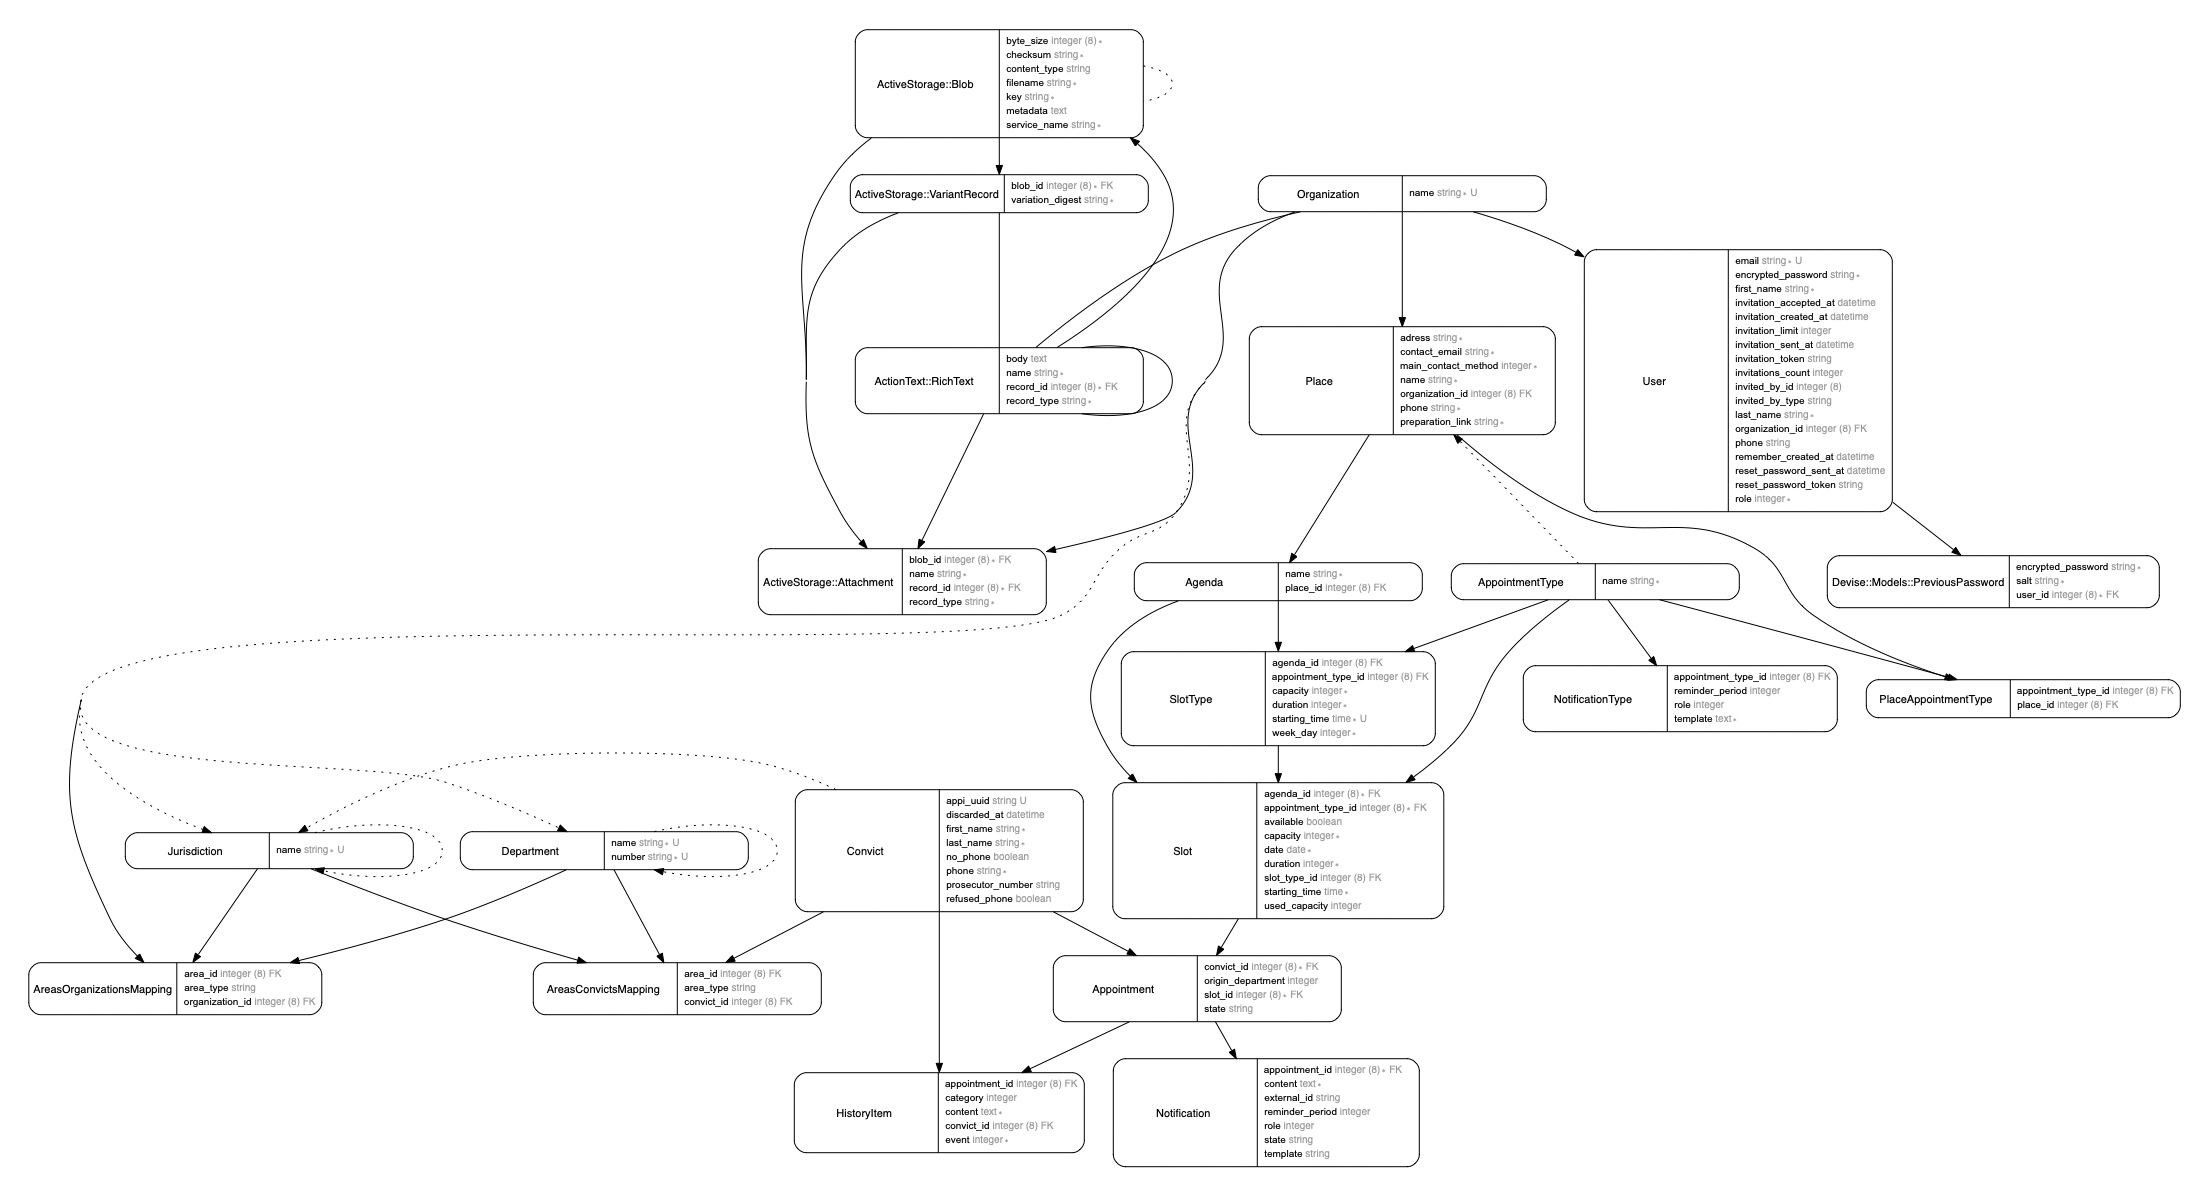
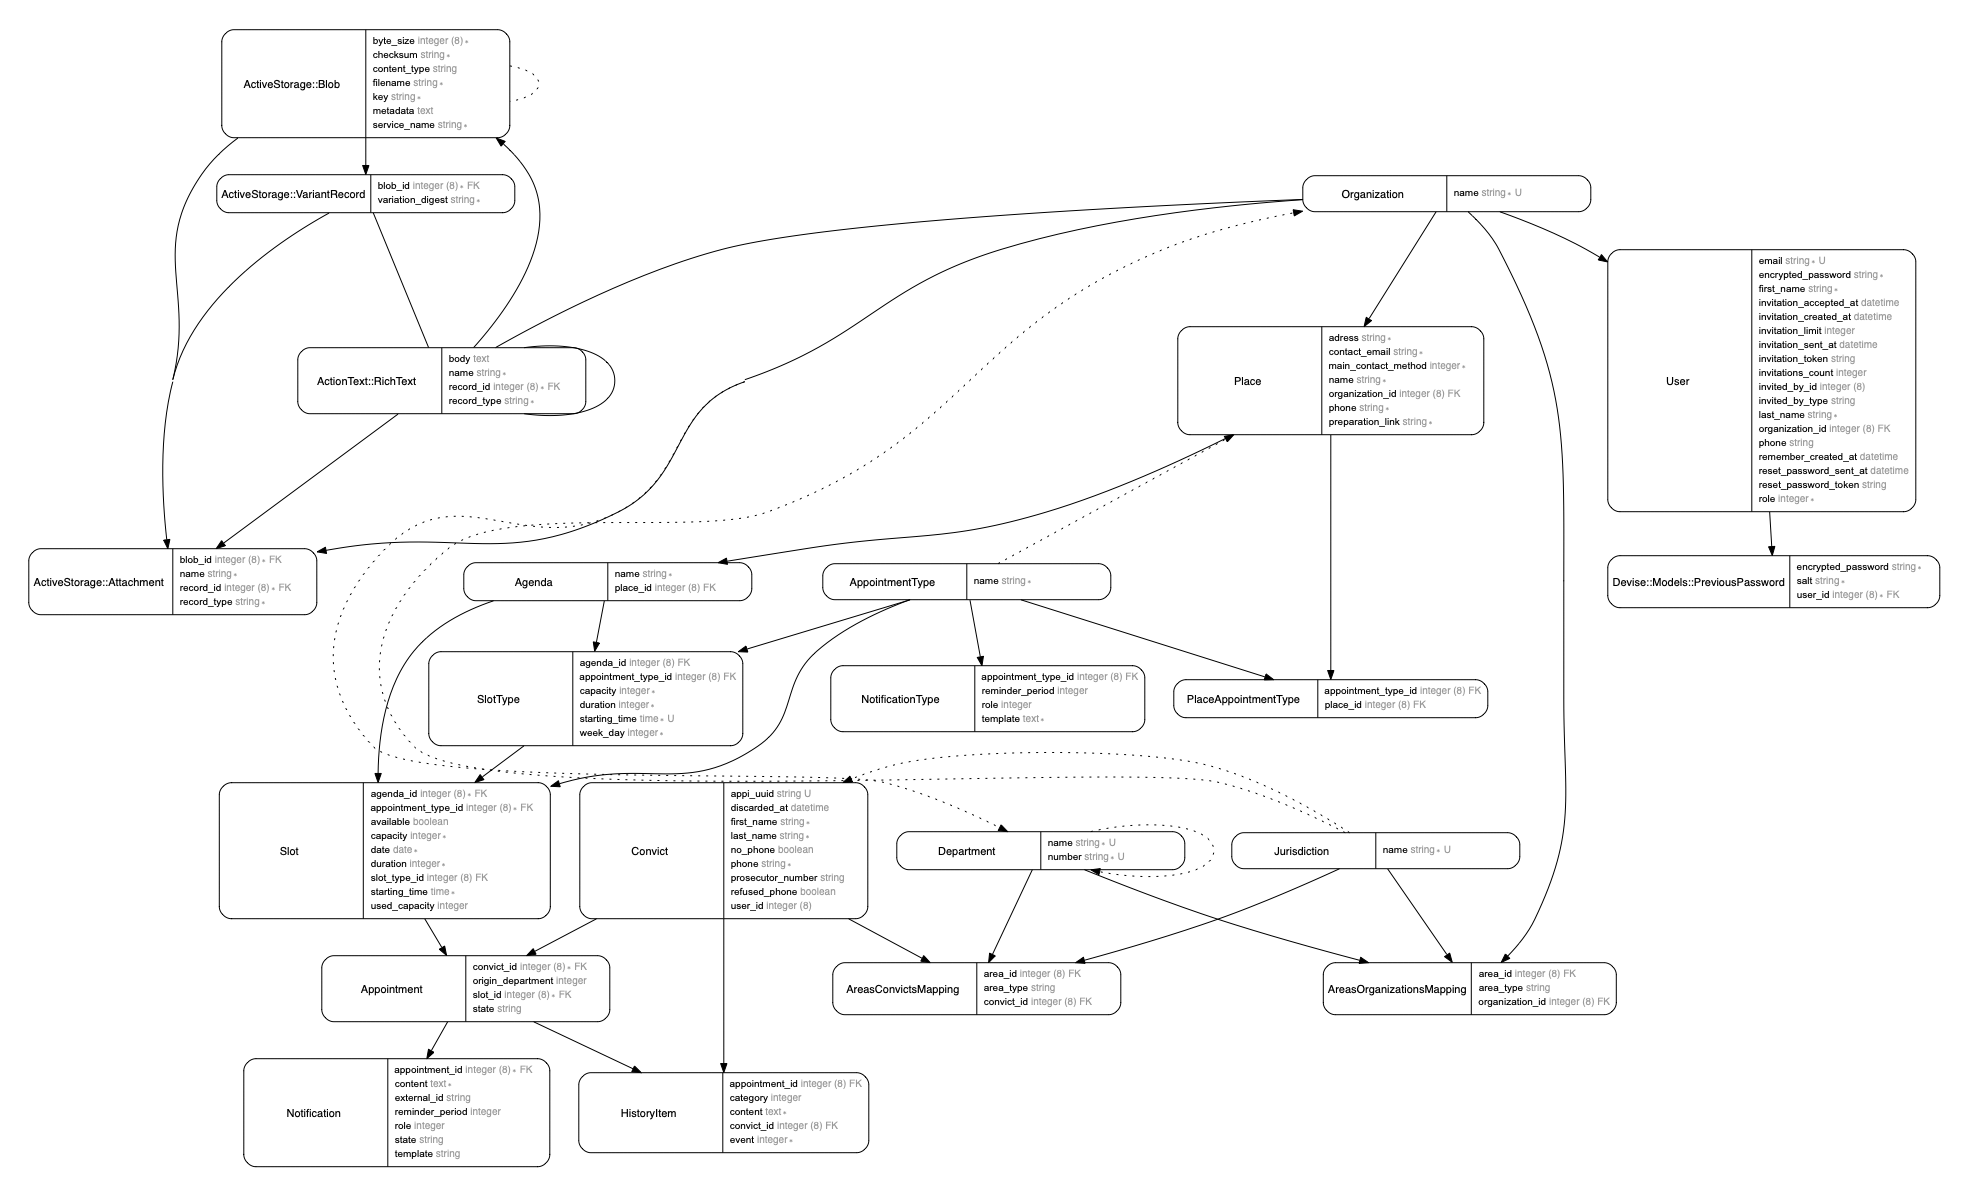
Add CPIP link in convict forms

diff --git a/app/javascript/components/autocomplete.js b/app/javascript/components/autocomplete.js
@@ -3,7 +3,7 @@ import 'select2';
 import 'select2/dist/css/select2.css';
 
 document.addEventListener('turbolinks:load',function() {
-  $('#convict-name-autocomplete').select2({
+  $('#name-autocomplete').select2({
     selectionCssClass : 'custom-select2-input',
     language: {
       noResults: function () {

diff --git a/app/javascript/packs/application.js b/app/javascript/packs/application.js
@@ -11,6 +11,7 @@ import "channels"
 require("jquery");
 require("@nathanvda/cocoon");
 require("components/profile_search");
+require("components/autocomplete");
 
 Rails.start()
 Turbolinks.start()

diff --git a/app/javascript/packs/appointment_new.js b/app/javascript/packs/appointment_new.js
@@ -1,3 +1,2 @@
-require('components/autocomplete');
 require("components/slot_selector");
 require("components/modal");

diff --git a/db/schema.rb b/db/schema.rb
@@ -10,7 +10,7 @@
 #
 # It's strongly recommended that you check this file into your version control system.
 
-ActiveRecord::Schema.define(version: 2022_02_14_171625) do
+ActiveRecord::Schema.define(version: 2022_03_01_100729) do
 
   # These are extensions that must be enabled in order to support this database
   enable_extension "plpgsql"
@@ -111,7 +111,9 @@ ActiveRecord::Schema.define(version: 2022_02_14_171625) do
     t.string "prosecutor_number"
     t.string "appi_uuid"
     t.datetime "discarded_at"
+    t.bigint "user_id"
     t.index ["discarded_at"], name: "index_convicts_on_discarded_at"
+    t.index ["user_id"], name: "index_convicts_on_user_id"
   end
 
   create_table "departments", force: :cascade do |t|
@@ -283,6 +285,7 @@ ActiveRecord::Schema.define(version: 2022_02_14_171625) do
   add_foreign_key "appointments", "slots"
   add_foreign_key "areas_convicts_mappings", "convicts"
   add_foreign_key "areas_organizations_mappings", "organizations"
+  add_foreign_key "convicts", "users"
   add_foreign_key "history_items", "appointments"
   add_foreign_key "history_items", "convicts"
   add_foreign_key "notification_types", "appointment_types"

diff --git a/app/models/convict.rb b/app/models/convict.rb
@@ -10,6 +10,9 @@ class Convict < ApplicationRecord
   has_many :departments, through: :areas_convicts_mappings, source: :area, source_type: 'Department'
   has_many :jurisdictions, through: :areas_convicts_mappings, source: :area, source_type: 'Jurisdiction'
 
+  belongs_to :user, optional: true
+  alias_attribute :cpip, :user
+
   attr_accessor :place_id
 
   validates :appi_uuid, allow_blank: true, uniqueness: true

diff --git a/app/views/convicts/users_helper.rb b/app/views/convicts/users_helper.rb
@@ -1,0 +1,22 @@
+module UsersHelper
+  def ordered_user_roles
+    %w[
+      admin
+      local_admin
+      jap
+      bex
+      prosecutor
+      secretary_court
+      dir_greff_bex
+      greff_co
+      dir_greff_sap
+      greff_sap
+      dpip
+      cpip
+      secretary_spip
+      educator
+      psychologist
+      overseer
+    ]
+  end
+end

diff --git a/app/controllers/convicts_controller.rb b/app/controllers/convicts_controller.rb
@@ -105,7 +105,7 @@ class ConvictsController < ApplicationController
   def convict_params
     params.require(:convict).permit(
       :first_name, :last_name, :phone, :no_phone,
-      :refused_phone, :place_id, :prosecutor_number, :appi_uuid
+      :refused_phone, :place_id, :prosecutor_number, :appi_uuid, :user_id,
     )
   end
 

diff --git a/app/models/user.rb b/app/models/user.rb
@@ -4,6 +4,7 @@ class User < ApplicationRecord
   has_paper_trail
 
   belongs_to :organization
+  has_many :convicts
 
   # Include default devise modules. Others available are:
   # :confirmable, :lockable, :trackable and :omniauthable

diff --git a/app/policies/user_policy.rb b/app/policies/user_policy.rb
@@ -3,7 +3,7 @@ class UserPolicy < ApplicationPolicy
     def resolve
       if user.admin?
         scope.all
-      elsif user.local_admin?
+      else
         scope.in_organization(user.organization)
       end
     end

diff --git a/app/helpers/convicts_helper.rb b/app/helpers/convicts_helper.rb
@@ -1,0 +1,9 @@
+module ConvictsHelper
+  def selected_cpip_for(convict, current_user)
+    if current_user.cpip?
+      convict.user || current_user
+    else
+      convict.user
+    end
+  end
+end

diff --git a/db/migrate/20220301100729_add_user_to_convicts.rb b/db/migrate/20220301100729_add_user_to_convicts.rb
@@ -1,0 +1,5 @@
+class AddUserToConvicts < ActiveRecord::Migration[6.1]
+  def change
+    add_reference :convicts, :user, foreign_key: true
+  end
+end
